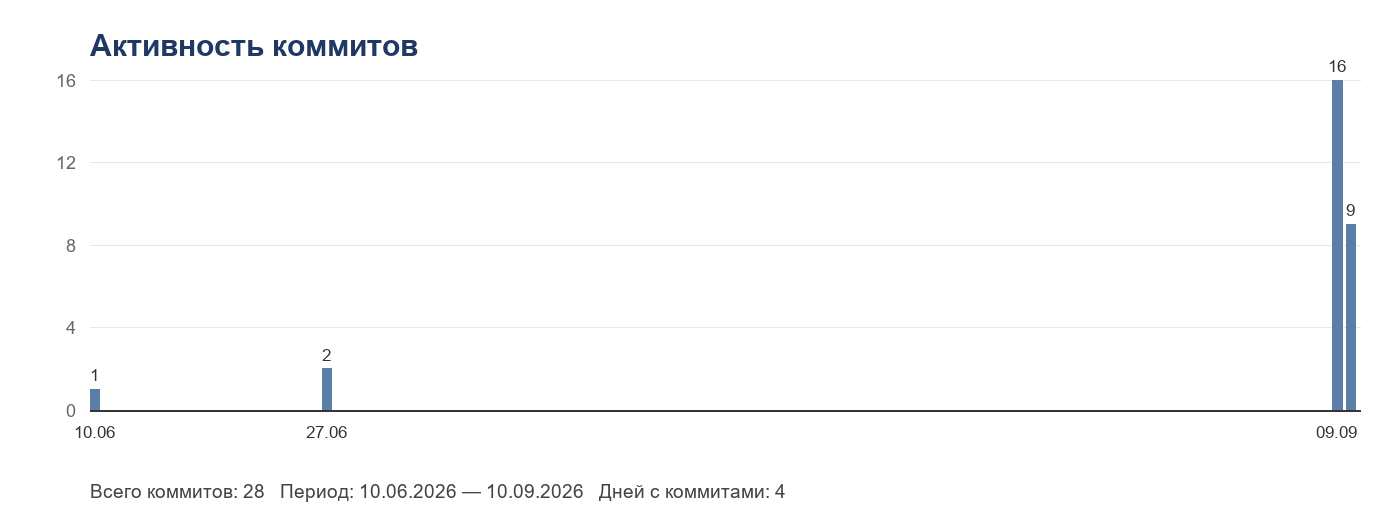
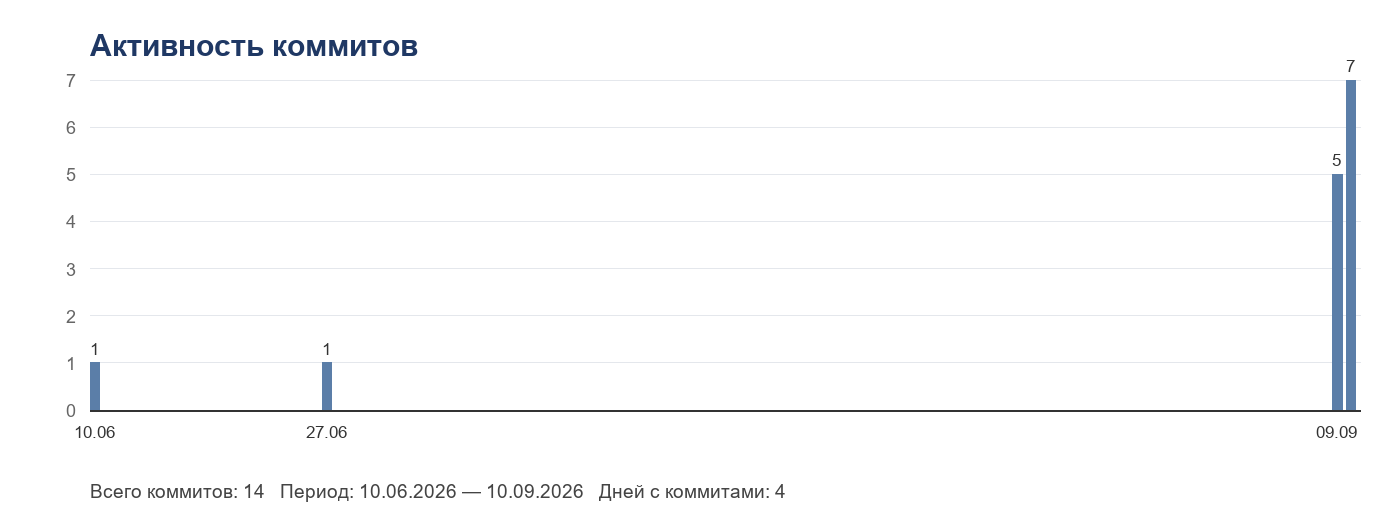
update git statistics

diff --git a/readme.md b/readme.md
@@ -165,10 +165,10 @@ sofa-travel-app/
 
 | Метрика | Значение |
 |---|---|
-| Всего коммитов | 28 |
+| Всего коммитов | 14 |
 | Период | 10.06.2026 — 10.09.2026 |
 | Ветка | main |
-| Файлов под версионным контролем | 88 |
+| Файлов под версионным контролем | 87 |
 | Тестов | 20 |
 | Строк кода на Python | 957 без миграций |
 
